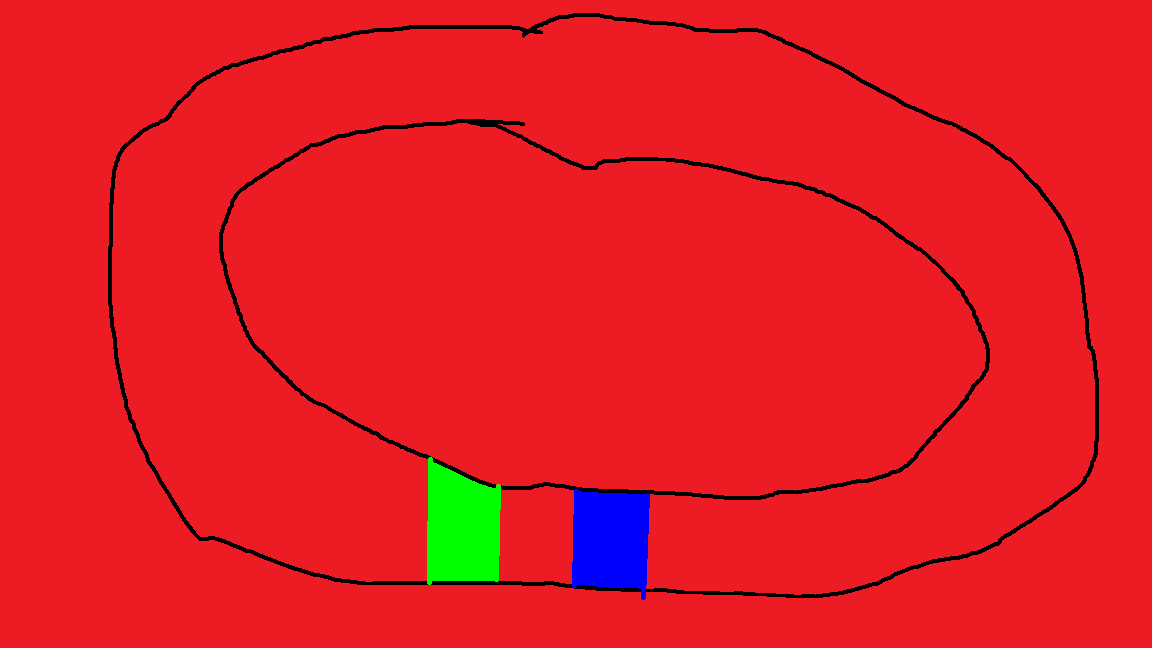
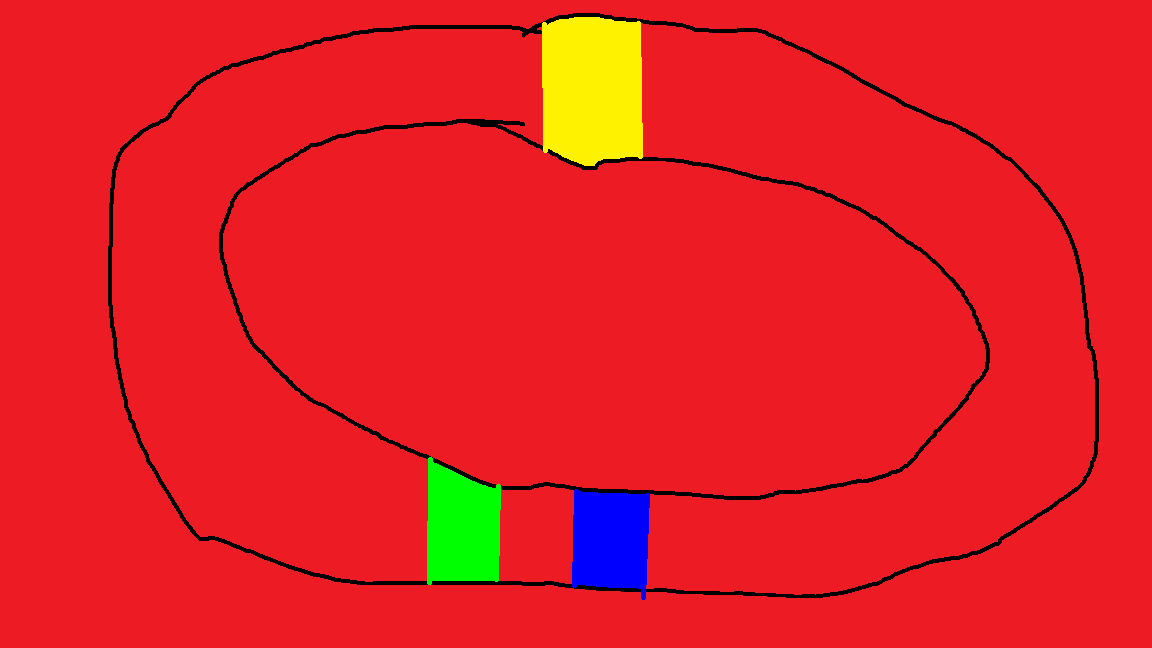
Added CarState comparison for priorityqueue +  defined checkpoint colours

Changed region(s): [[0.4688, 0.0, 0.5625, 0.2778]]

diff --git a/settings.py b/settings.py
@@ -14,12 +14,14 @@ gray = (255, 0, 0)  #road
 red = (255, 0, 0)
 green = (0, 255, 0)  # finish line
 blue = (0, 0, 255)
+yellow = (255, 255, 0) #checkpoints
 
 #GAME SPECIFIC COLOURS
 bg_colour = white
 wall_colour = black
 finish_colour = green
 track_colour = gray
+checkpoint_colour = yellow
 
 #GHOST COLOURS
 ghost = (100, 100, 255, 150)  #semi-transparent blue
